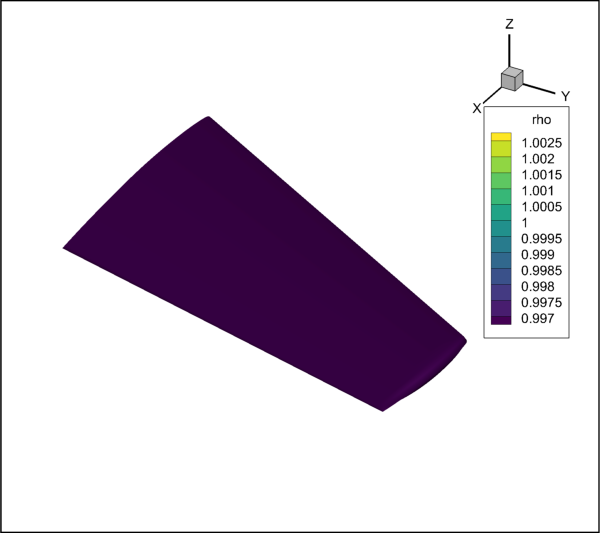
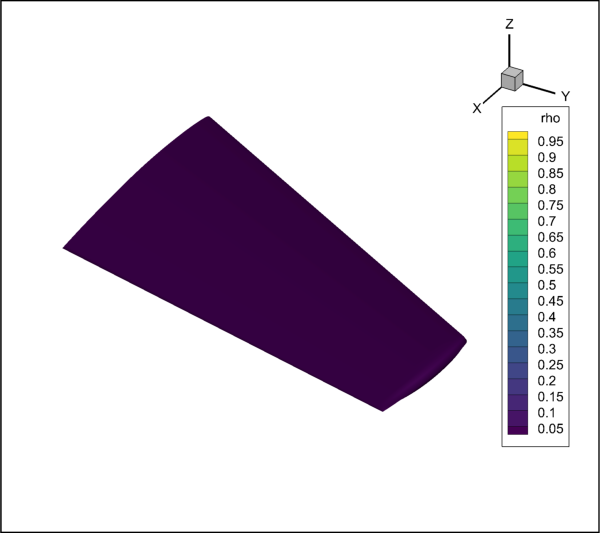
plotの仕方おぼえた

Changed region(s): [[0.78, 0.2101, 0.96, 0.8405]]

diff --git a/records/2.py b/records/2.py
@@ -1,0 +1,151 @@
+import tecplot as tp
+from tecplot.exception import *
+from tecplot.constant import *
+import os
+import sys
+import logging
+
+logging.basicConfig(stream=sys.stdout, level=logging.INFO)
+
+# Uncomment the following line to connect to a running instance of Tecplot 360:
+tp.session.connect()
+
+tp.macro.execute_command("""$!ReadDataSet  '\"C:\\Users\\fujiwara\\Downloads\\sigmoid_ver2.plt\" '
+  ReadDataOption = New
+  ResetStyle = No
+  VarLoadMode = ByName
+  AssignStrandIDs = Yes
+  VarNameList = '\"X\" \"Y\" \"Z\" \"rho\" \"u\" \"v\" \"w\" \"p\" \"q_criterion\" \"domainid\"'""")
+tp.active_frame().plot().rgb_coloring.red_variable_index=3
+tp.active_frame().plot().rgb_coloring.green_variable_index=3
+tp.active_frame().plot().rgb_coloring.blue_variable_index=3
+tp.active_frame().plot().contour(0).variable_index=3
+tp.active_frame().plot().contour(1).variable_index=7
+tp.active_frame().plot().contour(2).variable_index=8
+tp.active_frame().plot().contour(3).variable_index=9
+tp.active_frame().plot().contour(4).variable_index=3
+tp.active_frame().plot().contour(5).variable_index=3
+tp.active_frame().plot().contour(6).variable_index=3
+tp.active_frame().plot().contour(7).variable_index=3
+tp.active_frame().plot(PlotType.Cartesian3D).show_slices=True
+tp.active_frame().plot().show_contour=True
+tp.macro.execute_command('$!RedrawAll')
+tp.active_frame().plot().slice(0).orientation=SliceSurface.ZPlanes
+tp.macro.execute_command('$!RedrawAll')
+tp.active_frame().plot().view.position=(-1.13687e-13,
+    tp.active_frame().plot().view.position[1],
+    tp.active_frame().plot().view.position[2])
+tp.active_frame().plot().view.position=(tp.active_frame().plot().view.position[0],
+    0,
+    tp.active_frame().plot().view.position[2])
+tp.active_frame().plot().view.position=(tp.active_frame().plot().view.position[0],
+    tp.active_frame().plot().view.position[1],
+    2144.64)
+tp.active_frame().plot().view.psi=0
+tp.active_frame().plot().view.theta=0
+tp.macro.execute_command('$!RedrawAll')
+tp.active_frame().plot().view.position=(-1.13687e-13,
+    tp.active_frame().plot().view.position[1],
+    tp.active_frame().plot().view.position[2])
+tp.active_frame().plot().view.position=(tp.active_frame().plot().view.position[0],
+    0,
+    tp.active_frame().plot().view.position[2])
+tp.active_frame().plot().view.position=(tp.active_frame().plot().view.position[0],
+    tp.active_frame().plot().view.position[1],
+    2144.64)
+tp.active_frame().plot().view.width=141.225
+tp.active_frame().plot().view.position=(-1.13687e-13,
+    tp.active_frame().plot().view.position[1],
+    tp.active_frame().plot().view.position[2])
+tp.active_frame().plot().view.position=(tp.active_frame().plot().view.position[0],
+    0,
+    tp.active_frame().plot().view.position[2])
+tp.active_frame().plot().view.position=(tp.active_frame().plot().view.position[0],
+    tp.active_frame().plot().view.position[1],
+    2144.64)
+tp.active_frame().plot().view.width=51.2246
+tp.active_frame().plot().view.position=(-1.13687e-13,
+    tp.active_frame().plot().view.position[1],
+    tp.active_frame().plot().view.position[2])
+tp.active_frame().plot().view.position=(tp.active_frame().plot().view.position[0],
+    0,
+    tp.active_frame().plot().view.position[2])
+tp.active_frame().plot().view.position=(tp.active_frame().plot().view.position[0],
+    tp.active_frame().plot().view.position[1],
+    2144.64)
+tp.active_frame().plot().view.width=26.5717
+tp.active_frame().plot().view.position=(-1.13687e-13,
+    tp.active_frame().plot().view.position[1],
+    tp.active_frame().plot().view.position[2])
+tp.active_frame().plot().view.position=(tp.active_frame().plot().view.position[0],
+    0,
+    tp.active_frame().plot().view.position[2])
+tp.active_frame().plot().view.position=(tp.active_frame().plot().view.position[0],
+    tp.active_frame().plot().view.position[1],
+    2144.64)
+tp.active_frame().plot().view.width=14.8914
+tp.active_frame().plot().slice(0).origin.z=-0.5
+tp.macro.execute_command('$!RedrawAll')
+tp.active_frame().plot().view.position=(-1.13687e-13,
+    tp.active_frame().plot().view.position[1],
+    tp.active_frame().plot().view.position[2])
+tp.active_frame().plot().view.position=(tp.active_frame().plot().view.position[0],
+    0,
+    tp.active_frame().plot().view.position[2])
+tp.active_frame().plot().view.position=(tp.active_frame().plot().view.position[0],
+    tp.active_frame().plot().view.position[1],
+    2144.64)
+tp.active_frame().plot().view.width=25.4377
+tp.active_frame().plot().view.position=(-1.13687e-13,
+    tp.active_frame().plot().view.position[1],
+    tp.active_frame().plot().view.position[2])
+tp.active_frame().plot().view.position=(tp.active_frame().plot().view.position[0],
+    0,
+    tp.active_frame().plot().view.position[2])
+tp.active_frame().plot().view.position=(tp.active_frame().plot().view.position[0],
+    tp.active_frame().plot().view.position[1],
+    2144.64)
+tp.active_frame().plot().view.width=19.906
+tp.active_frame().plot().view.position=(2.22059,
+    tp.active_frame().plot().view.position[1],
+    tp.active_frame().plot().view.position[2])
+tp.active_frame().plot().view.position=(tp.active_frame().plot().view.position[0],
+    -0.290792,
+    tp.active_frame().plot().view.position[2])
+tp.active_frame().plot().view.position=(tp.active_frame().plot().view.position[0],
+    tp.active_frame().plot().view.position[1],
+    2144.64)
+tp.active_frame().plot().view.width=19.906
+tp.active_frame().plot().view.position=(2.22059,
+    tp.active_frame().plot().view.position[1],
+    tp.active_frame().plot().view.position[2])
+tp.active_frame().plot().view.position=(tp.active_frame().plot().view.position[0],
+    -0.290792,
+    tp.active_frame().plot().view.position[2])
+tp.active_frame().plot().view.position=(tp.active_frame().plot().view.position[0],
+    tp.active_frame().plot().view.position[1],
+    2144.64)
+tp.active_frame().plot().view.width=10.9631
+tp.active_frame().plot().view.position=(2.17691,
+    tp.active_frame().plot().view.position[1],
+    tp.active_frame().plot().view.position[2])
+tp.active_frame().plot().view.position=(tp.active_frame().plot().view.position[0],
+    0.131424,
+    tp.active_frame().plot().view.position[2])
+tp.active_frame().plot().view.position=(tp.active_frame().plot().view.position[0],
+    tp.active_frame().plot().view.position[1],
+    2144.64)
+tp.active_frame().plot().view.width=10.9631
+tp.macro.execute_command('''$!Pick AddAtPosition
+  X = 9.10358565737
+  Y = 4.05876494024
+  ConsiderStyle = Yes''')
+tp.active_frame().plot().contour(0).variable_index=7
+tp.macro.execute_command('$!RedrawAll')
+tp.export.save_png('./test2.png',
+    width=753,
+    region=ExportRegion.AllFrames,
+    supersample=1,
+    convert_to_256_colors=False)
+# End Macro.
+

diff --git a/records/5.py b/records/5.py
@@ -1,0 +1,56 @@
+import tecplot as tp
+from tecplot.exception import *
+from tecplot.constant import *
+
+# Uncomment the following line to connect to a running instance of Tecplot 360:
+# tp.session.connect()
+
+tp.macro.execute_command("""$!ReadDataSet  '\"C:\\Users\\fujiwara\\Downloads\\sigmoid_ver2.plt\" '
+  ReadDataOption = New
+  ResetStyle = Yes
+  VarLoadMode = ByName
+  AssignStrandIDs = Yes
+  VarNameList = '\"X\" \"Y\" \"Z\" \"rho\" \"u\" \"v\" \"w\" \"p\" \"q_criterion\" \"domainid\"'""")
+tp.active_frame().plot().rgb_coloring.red_variable_index=3
+tp.active_frame().plot().rgb_coloring.green_variable_index=3
+tp.active_frame().plot().rgb_coloring.blue_variable_index=3
+tp.active_frame().plot().contour(0).variable_index=3
+tp.active_frame().plot().contour(1).variable_index=7
+tp.active_frame().plot().contour(2).variable_index=8
+tp.active_frame().plot().contour(3).variable_index=9
+tp.active_frame().plot().contour(4).variable_index=3
+tp.active_frame().plot().contour(5).variable_index=3
+tp.active_frame().plot().contour(6).variable_index=3
+tp.active_frame().plot().contour(7).variable_index=3
+tp.active_frame().plot(PlotType.Cartesian3D).show_slices=True
+tp.macro.execute_command('$!RedrawAll')
+tp.active_frame().plot().view.position=(2144.64,
+    tp.active_frame().plot().view.position[1],
+    tp.active_frame().plot().view.position[2])
+tp.active_frame().plot().view.position=(tp.active_frame().plot().view.position[0],
+    -2.45008e-13,
+    tp.active_frame().plot().view.position[2])
+tp.active_frame().plot().view.position=(tp.active_frame().plot().view.position[0],
+    tp.active_frame().plot().view.position[1],
+    1.31321e-13)
+tp.active_frame().plot().view.psi=90
+tp.active_frame().plot().view.theta=-90
+tp.macro.execute_command('$!RedrawAll')
+tp.active_frame().plot().view.position=(2144.64,
+    tp.active_frame().plot().view.position[1],
+    tp.active_frame().plot().view.position[2])
+tp.active_frame().plot().view.position=(tp.active_frame().plot().view.position[0],
+    -2.45008e-13,
+    tp.active_frame().plot().view.position[2])
+tp.active_frame().plot().view.position=(tp.active_frame().plot().view.position[0],
+    tp.active_frame().plot().view.position[1],
+    1.31321e-13)
+tp.active_frame().plot().view.width=93.8902
+tp.macro.execute_command('''$!Pick AddAtPosition
+  X = 8.8764940239
+  Y = 3.19820717131
+  ConsiderStyle = Yes''')
+tp.active_frame().plot().contour(0).variable_index=7
+tp.macro.execute_command('$!RedrawAll')
+# End Macro.
+

diff --git a/main.py b/main.py
@@ -9,10 +9,8 @@ import tecplot
 # Run this script with "-c" to connect to Tecplot 360 on port 7600
 # To enable connections in Tecplot 360, click on:
 #   "Scripting" -> "PyTecplot Connections..." -> "Accept connections"
-import sys
 if '-c' in sys.argv:
     tecplot.session.connect()
-
 
 examples_dir = tecplot.session.tecplot_examples_directory()
 datafile = os.path.join(examples_dir, 'OneraM6wing', 'OneraM6_SU2_RANS.plt')
@@ -27,3 +25,66 @@ frame.plot().contour(0).levels.reset_to_nice()
 
 # export image of wing
 tecplot.export.save_png('wing.png', 600, supersample=3)
+
+# extract an arbitrary slice from the surface data on the wing
+extracted_slice = tecplot.data.extract.extract_slice(
+    origin=(0, 0.25, 0),
+    normal=(0, 1, 0),
+    source=tecplot.constant.SliceSource.SurfaceZones,
+    dataset=dataset)
+
+extracted_slice.name = 'Quarter-chord C_p'
+
+# get x from slice
+extracted_x = extracted_slice.values('x')
+
+# copy of data as a numpy array
+x = extracted_x.as_numpy_array()
+
+# normalize x
+xc = (x - x.min()) / (x.max() - x.min())
+extracted_x[:] = xc
+
+# switch plot type in current frame
+frame.plot_type = tecplot.constant.PlotType.XYLine
+plot = frame.plot()
+
+# clear plot
+plot.delete_linemaps()
+
+# create line plot from extracted zone data
+cp_linemap = plot.add_linemap(
+    name=extracted_slice.name,
+    zone=extracted_slice,
+    x=dataset.variable('x'),
+    y=dataset.variable('Pressure_Coefficient'))
+
+# integrate over the normalized extracted slice values
+scalar_var_index = dataset.variable('Pressure_Coefficient').index + 1
+command = '''
+    Integrate
+    VariableOption='Average'
+    XOrigin=0 YOrigin=0
+    ScalarVar={scalar_var}
+    XVariable=1
+'''.format(scalar_var=scalar_var_index)
+
+# print("Executing command:", command)  # Debug print to check command
+# tecplot.macro.execute_extended_command('CFDAnalyzer4', command)
+
+# get integral result from Frame's aux data
+total = float(frame.aux_data['CFDA.INTEGRATION_TOTAL'])
+
+# overlay result on plot in upper right corner
+frame.add_text('integration result: {:.5f}'.format(total), (60,90))
+
+# set style of linemap plot
+cp_linemap.line.color = tecplot.constant.Color.Blue
+cp_linemap.line.line_thickness = 0.8
+cp_linemap.y_axis.reverse = True
+
+# update axes limits to show data
+plot.view.fit()
+
+# export image of pressure coefficient as a function of x/c
+tecplot.export.save_png('wing_pressure_coefficient.png', 600, supersample=3)

diff --git a/records/test.py b/records/test.py
@@ -1,0 +1,22 @@
+import tecplot as tp
+from tecplot.exception import *
+from tecplot.constant import *
+
+# Uncomment the following line to connect to a running instance of Tecplot 360:
+# tp.session.connect()
+
+tp.active_frame().plot().axes.x_axis(0).min=-0.776589
+tp.active_frame().plot().axes.x_axis(0).max=1.50909
+tp.active_frame().plot().axes.y_axis(0).min=-1.21249
+tp.active_frame().plot().axes.y_axis(0).max=0.897334
+tp.active_frame().plot().axes.x_axis(0).min=-1.11094
+tp.active_frame().plot().axes.x_axis(0).max=1.84344
+tp.active_frame().plot().axes.y_axis(0).min=-1.52112
+tp.active_frame().plot().axes.y_axis(0).max=1.20596
+tp.export.save_png('//wsl$/Ubuntu/home/hiroaki/spanwiseLiftPlotterForTecplot/records/test.png',
+    width=753,
+    region=ExportRegion.AllFrames,
+    supersample=3,
+    convert_to_256_colors=False)
+# End Macro.
+

diff --git a/records/4.py b/records/4.py
@@ -1,0 +1,15 @@
+import tecplot as tp
+from tecplot.exception import *
+from tecplot.constant import *
+
+# Uncomment the following line to connect to a running instance of Tecplot 360:
+# tp.session.connect()
+
+tp.macro.execute_command("""$!ReadDataSet  '\"C:\\Users\\fujiwara\\Downloads\\sigmoid_ver2.plt\" '
+  ReadDataOption = New
+  ResetStyle = No
+  VarLoadMode = ByName
+  AssignStrandIDs = Yes
+  VarNameList = '\"X\" \"Y\" \"Z\" \"rho\" \"u\" \"v\" \"w\" \"p\" \"q_criterion\" \"domainid\"'""")
+# End Macro.
+
